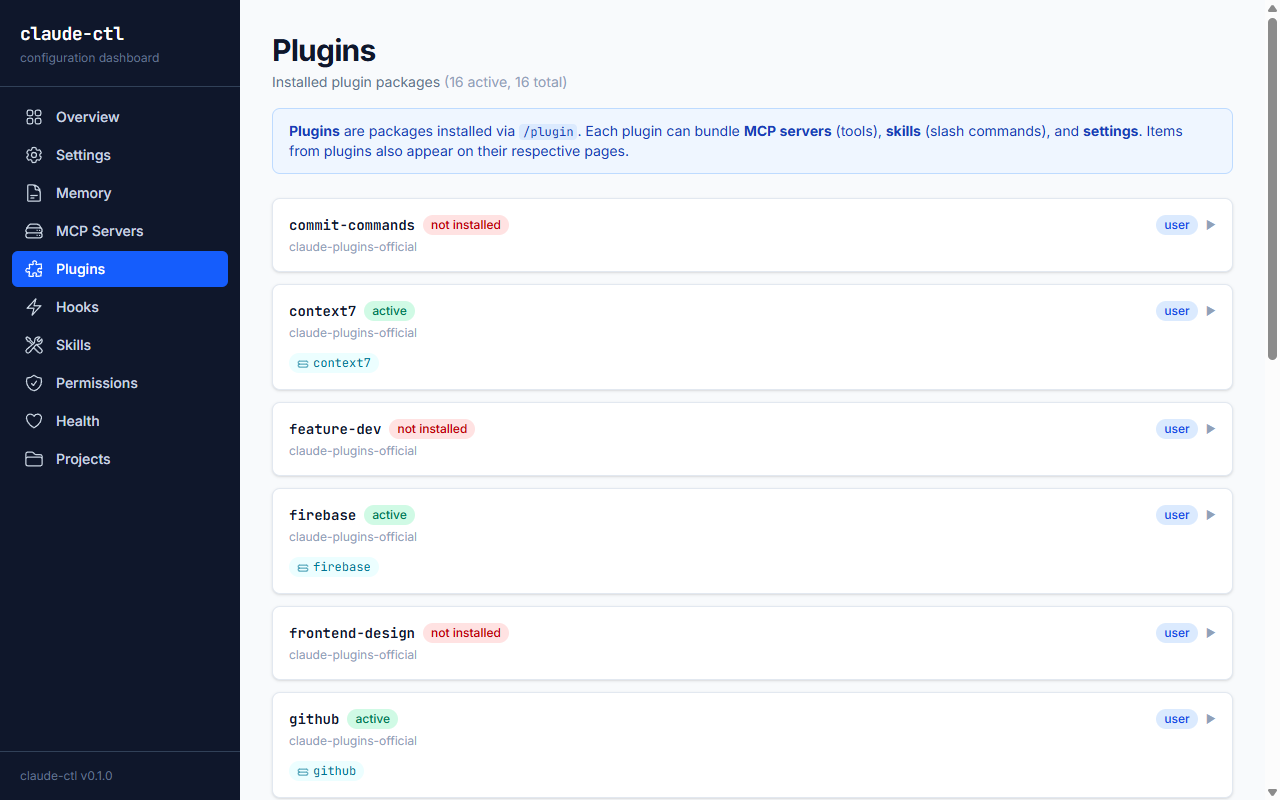
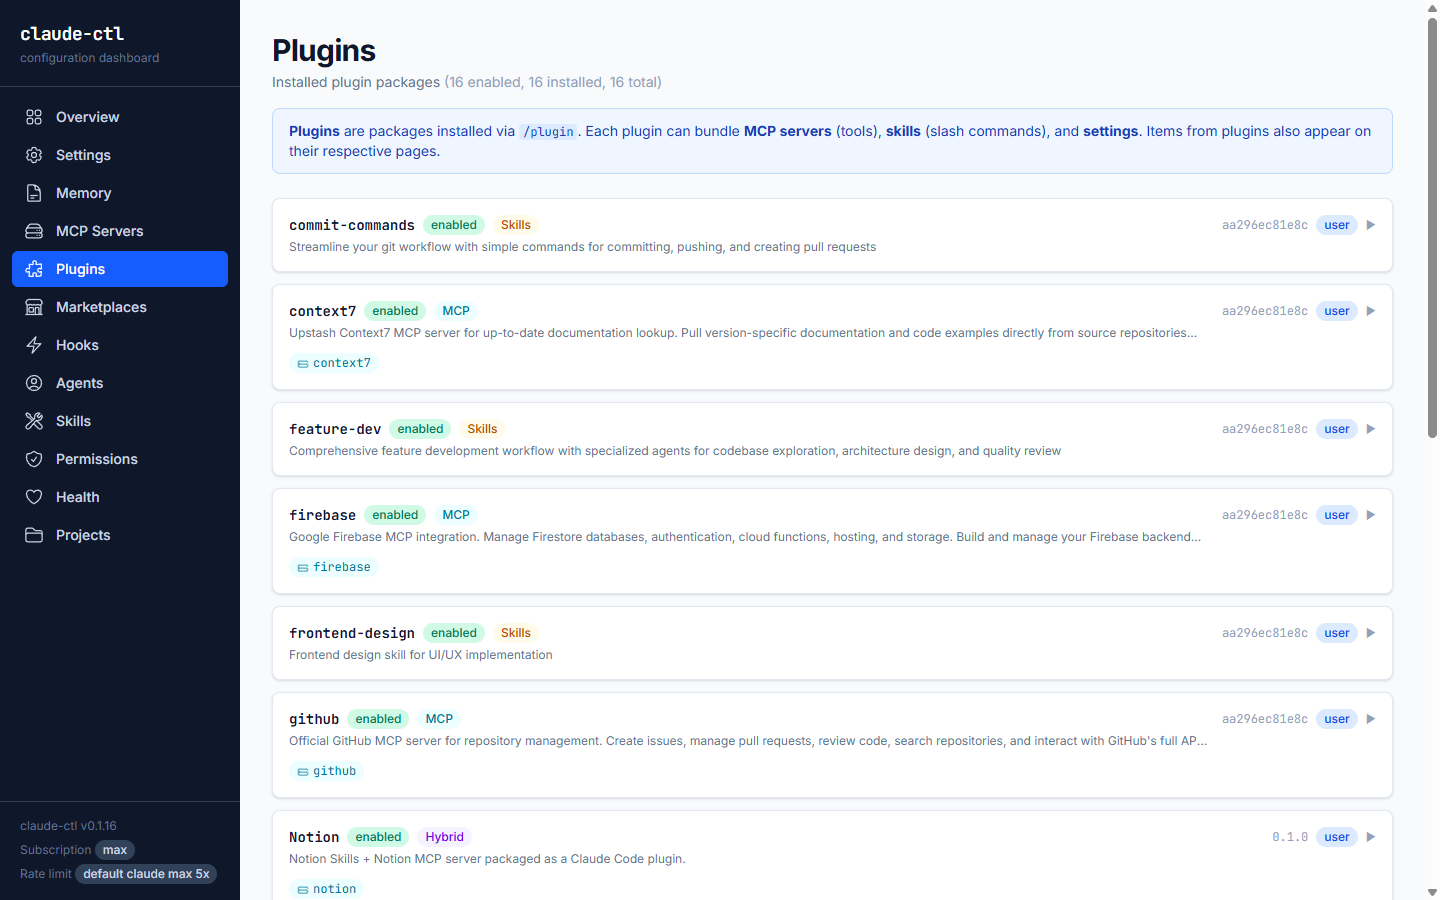
docs: update README and refresh all screenshots
Add Agents and Marketplaces sections to README. Replace all 10 existing
screenshots with fresh captures reflecting current UI, and add 2 new
screenshots for the agents and marketplaces pages.

Changed region(s): [[0.0, 0.0, 1.0, 1.0], [0.8438, 0.7812, 0.9688, 0.8125], [0.8438, 0.6875, 0.9688, 0.7188]]

diff --git a/README.md b/README.md
@@ -99,13 +99,23 @@ Installed plugin packages with their bundled MCP servers and skills.
 
 ![Plugins](docs/screenshots/plugins.png)
 
+### Marketplaces
+Plugin repository catalog showing all available plugins across configured marketplaces.
+
+![Marketplaces](docs/screenshots/marketplaces.png)
+
 ### Hooks
 Hook configurations and the full event catalog.
 
 ![Hooks](docs/screenshots/hooks.png)
 
+### Agents
+Custom AI agent definitions with tools, model configuration, and usage descriptions.
+
+![Agents](docs/screenshots/agents.png)
+
 ### Commands & Skills
-Custom slash commands and plugin-provided skills.
+Custom slash commands, skills, and plugin-provided capabilities.
 
 ![Skills](docs/screenshots/skills.png)
 
